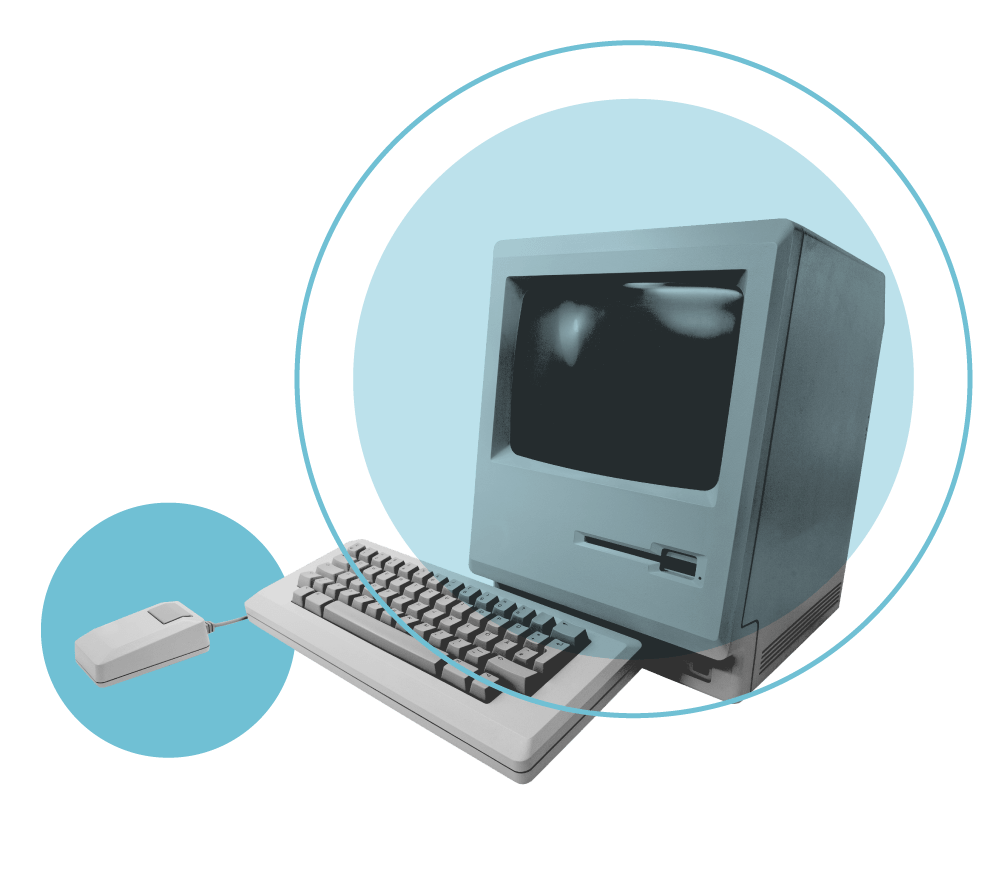
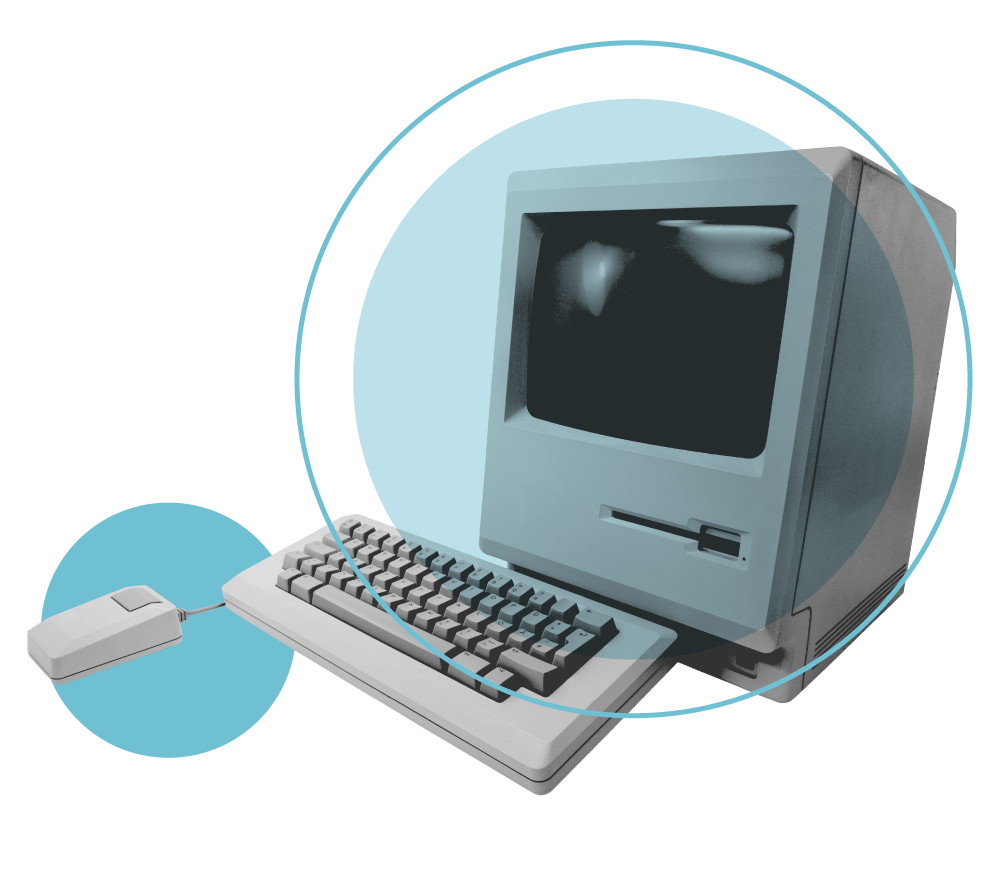
Increased Development image size + other small tweaks

Changed region(s): [[0.031, 0.1534, 0.961, 0.9205], [0.403, 0.7977, 0.434, 0.8284]]

diff --git a/js/script.min.js b/js/script.min.js
@@ -1,1 +1,1 @@
-$(document).ready(function(){var a;$.scrollify({section:".homepage-block, .content-block",scrollbars:false,scrollSpeed:800,before:function(e,d){var f=d[e].attr("data-section-name");$(".pagination a.active").removeClass("active");$(".pagination a[href=\\#"+f+"]").addClass("active");c()},after:c});$(".pagination a").on("click",function(){$.scrollify.move($(this).attr("href"))});function c(){var d=$.scrollify.current();if(d.hasClass("dark")){$(".pagination a, .social-icons, .mobile-navigation .fas").addClass("dark-contrast").removeClass("light-contrast");$("#tag-logo, #tag-logo-mobile").attr("src","img/content/logo-white.png")}else{if(d.hasClass("light")){$(".pagination a, .social-icons, .mobile-navigation .fas").addClass("light-contrast").removeClass("dark-contrast");$("#tag-logo, #tag-logo-mobile").attr("src","img/content/logo-black.png")}else{$(".pagination a, .social-icons, .mobile-navigation .fas").removeClass("dark-contrast light-contrast");$("#tag-logo, #tag-logo-mobile").attr("src","img/content/logo-white.png")}}}$("#mobile-menu-icon").click(function(){$.scrollify.disable();$(".mobile-menu-wrapper").fadeIn();$("body").css("","")});$("#close-menu").click(function(){$(".mobile-menu-wrapper").fadeOut();$.scrollify.enable()});$(".btn, li, p, .contact-region div").hover(function(){if(!$(this).hasClass("active-page")){$(this).find(".hover-bar").css("width","100%")}},function(){$(this).find(".hover-bar").css("width","0")});$("[data-popup-open]").click(function(){$.scrollify.disable();var d=$(this).attr("data-popup-open");$('[data-popup="'+d+'"]').fadeIn(350).css("display","flex");$("body").css("overflow","hidden")});$("[data-popup-close]").click(function(){$(".mobile-menu-wrapper").fadeOut();var d=$(this).attr("data-popup-close");$('[data-popup="'+d+'"]').fadeOut(350);$("body").css("overflow","auto");var e=$(this).find("iframe").attr("src");$(this).find("iframe").attr("src","");$(this).find("iframe").attr("src",e);$.scrollify.enable()});$(".link-hover").hover(function(){$(this).find(".fa-chevron-right").removeClass("link-hover-arrow")},function(){$(this).find(".fa-chevron-right").addClass("link-hover-arrow")});$(".submit-btn").hover(function(){$(".submit-btn span").css("width","100%")},function(){$(".submit-btn span").css("width","0%")});$(".contact-region div").click(function(){$(".contact-region div").removeClass("active-region");$(this).addClass("active-region")});$(".form-container").submit(function(){$(this).fadeOut(200);setTimeout(function(){$(".contact-region, #contactform").hide();$(".contact-title h3").html('Message Sent <i class="fas fa-check"></i>');$(".region-help").text("We'll be in touch!");$(".contact-title").css("width","100%");$(".form-container").fadeIn(200)},400)});$(".nz").click(function(){$("#region").val("nz");$("#nz-img").attr("src","img/layout/n-hover.png");$("#aus-img").attr("src","img/layout/au.png");$(this).addClass("active-region").removeClass("inactive");$(".aus").removeClass("active-region").addClass("inactive")});$(".aus").click(function(){$("#region").val("aus");$("#nz-img").attr("src","img/layout/n.png");$("#aus-img").attr("src","img/layout/au-hover.png");$(this).addClass("active-region").removeClass("inactive");$(".nz").removeClass("active-region").addClass("inactive")});$(".nz, .aus").click(function(){$(".nz, .aus").removeClass("region-select");$(".contact-form").removeClass("submitted");$("#form-name").focus()});$(".nz, .aus").hover(function(){if(!$(this).hasClass("active-region")){$(this).removeClass("inactive")}},function(){if(!$(this).hasClass("active-region")){$(this).addClass("inactive")}});$(".product").hover(function(){$(".product").css("opacity","0.2");$(this).css("opacity","1")},function(){$(".product").css("opacity","1")});$(window).scroll(function(){if($(this).scrollTop()>50){$(".nav-container").css("padding","1em 4em");$(".nav-container .logo-wrapper").css("width","85px")}else{$(".nav-container").css("padding","2em 4em");$(".nav-container .logo-wrapper").css("width","100px")}});$("#top-btn").click(function(){$("html").animate({scrollTop:0},900)});$(".scroll-icon").click(function(){$("html, body").animate({scrollTop:$("#what").offset().top},500)});$(".go-back").click(function(){history.back()});for(var b=1;b<48;b++){$(".mosaic-wrapper").append("<div class='mosaic-image'><img src='img/content/who/who-"+b+".jpg' alt='mosaic image "+b+"'></div>")}setInterval(function(){mosaicWidth=$(".mosaic-image").width();$(".mosaic-image").css("height",mosaicWidth)},0);$(function(){var e=$(".mosaic-wrapper");var d=e.children();while(d.length){e.append(d.splice(Math.floor(Math.random()*d.length),1)[0])}});c()});
+$(document).ready(function(){var a;$.scrollify({section:".homepage-block, .content-block",scrollbars:false,scrollSpeed:800,before:function(e,d){var f=d[e].attr("data-section-name");$(".pagination a.active").removeClass("active");$(".pagination a[href=\\#"+f+"]").addClass("active");c()},after:c});$(".pagination a").on("click",function(){$.scrollify.move($(this).attr("href"))});function c(){var d=$.scrollify.current();if(d.hasClass("dark")){$(".pagination a, .social-icons, .mobile-navigation .fas").addClass("dark-contrast").removeClass("light-contrast");$("#tag-logo, #tag-logo-mobile").attr("src","img/content/logo-white.png")}else{if(d.hasClass("light")){$(".pagination a, .social-icons, .mobile-navigation .fas").addClass("light-contrast").removeClass("dark-contrast");$("#tag-logo, #tag-logo-mobile").attr("src","img/content/logo-black.png")}else{$(".pagination a, .social-icons, .mobile-navigation .fas").removeClass("dark-contrast light-contrast");$("#tag-logo, #tag-logo-mobile").attr("src","img/content/logo-white.png")}}}$("#mobile-menu-icon").click(function(){$.scrollify.disable();$(".mobile-menu-wrapper").fadeIn();$("body").css("","")});$("#close-menu").click(function(){$(".mobile-menu-wrapper").fadeOut();$.scrollify.enable()});$(".btn, li, p, .contact-region div").hover(function(){if(!$(this).hasClass("active-page")){$(this).find(".hover-bar").css("width","100%")}},function(){$(this).find(".hover-bar").css("width","0")});$("[data-popup-open]").click(function(){$.scrollify.disable();var d=$(this).attr("data-popup-open");$('[data-popup="'+d+'"]').fadeIn(350).css("display","flex");$("body").css("overflow","hidden")});$("[data-popup-close]").click(function(){$(".mobile-menu-wrapper").fadeOut();var d=$(this).attr("data-popup-close");$('[data-popup="'+d+'"]').fadeOut(350);$("body").css("overflow","auto");var e=$(this).find("iframe").attr("src");$(this).find("iframe").attr("src","");$(this).find("iframe").attr("src",e);$.scrollify.enable()});$(".link-hover").hover(function(){$(this).find(".fa-chevron-right").removeClass("link-hover-arrow")},function(){$(this).find(".fa-chevron-right").addClass("link-hover-arrow")});$(".submit-btn").hover(function(){$(".submit-btn span").css("width","100%")},function(){$(".submit-btn span").css("width","0%")});$(".contact-region div").click(function(){$(".contact-region div").removeClass("active-region");$(this).addClass("active-region")});$(".form-container").submit(function(){$(this).fadeOut(200);setTimeout(function(){$(".contact-region, #contactform").hide();$(".contact-title h3").html('Message Sent <i class="fas fa-check"></i>');$(".region-help").text("We'll be in touch!");$(".contact-title").css("width","100%");$(".form-container").fadeIn(200)},400)});$(".nz").click(function(){$("#region").val("nz");$("#nz-img").attr("src","img/layout/n-hover.png");$("#aus-img").attr("src","img/layout/au.png");$(this).addClass("active-region").removeClass("inactive");$(".aus").removeClass("active-region").addClass("inactive")});$(".aus").click(function(){$("#region").val("aus");$("#nz-img").attr("src","img/layout/n.png");$("#aus-img").attr("src","img/layout/au-hover.png");$(this).addClass("active-region").removeClass("inactive");$(".nz").removeClass("active-region").addClass("inactive")});$(".nz, .aus").click(function(){$(".nz, .aus").removeClass("region-select");$(".contact-form").removeClass("submitted");$("#form-name").focus()});$(".nz, .aus").hover(function(){if(!$(this).hasClass("active-region")){$(this).removeClass("inactive")}},function(){if(!$(this).hasClass("active-region")){$(this).addClass("inactive")}});$(".product").hover(function(){$(".product").css("opacity","0.2");$(this).css("opacity","1")},function(){$(".product").css("opacity","1")});$(window).scroll(function(){if($(this).scrollTop()>50){$(".nav-container").css("padding","1em 4em");$(".nav-container .logo-wrapper").css("width","85px")}else{$(".nav-container").css("padding","2em 4em");$(".nav-container .logo-wrapper").css("width","100px")}});$("#top-btn").click(function(){$("html").animate({scrollTop:0},900)});$(".scroll-icon").click(function(){$("html, body").animate({scrollTop:$("#what").offset().top},500)});$(".go-back").click(function(){history.back()});for(var b=1;b<50;b++){$(".mosaic-wrapper").append("<div class='mosaic-image'><img src='img/content/who/who-"+b+".jpg' alt='mosaic image "+b+"'></div>")}setInterval(function(){mosaicWidth=$(".mosaic-image").width();$(".mosaic-image").css("height",mosaicWidth)},0);$(function(){var e=$(".mosaic-wrapper");var d=e.children();while(d.length){e.append(d.splice(Math.floor(Math.random()*d.length),1)[0])}});c()});

diff --git a/js/script.js b/js/script.js
@@ -175,7 +175,7 @@
 		history.back()
 	});
 
-	for (var i = 1; i < 48; i++) {
+	for (var i = 1; i < 50; i++) {
 		$('.mosaic-wrapper').append("<div class='mosaic-image'><img src='img/content/who/who-"+i+".jpg' alt='mosaic image "+i+"'></div>");
 	}
 

diff --git a/resources/templates/footer.php b/resources/templates/footer.php
@@ -40,18 +40,21 @@
 		showDivs(1, 1);
 
 		function plusDivs(n, no) {
-		  showDivs(slideIndex[no] += n, no);
+			showDivs(slideIndex[no] += n, no);
 		}
 
 		function showDivs(n, no) {
-		  var i;
-		  var x = document.getElementsByClassName(slideId[no]);
-		  if (n > x.length) {slideIndex[no] = 1}
-		  if (n < 1) {slideIndex[no] = x.length}
-		  for (i = 0; i < x.length; i++) {
+			var i;
+			var x = document.getElementsByClassName(slideId[no]);
+			if (n > x.length) {slideIndex[no] = 1}
+			if (n < 1) {slideIndex[no] = x.length}
+			for (i = 0; i < x.length; i++) {
 			 x[i].style.display = "none";
-		  }
-		  x[slideIndex[no]-1].style.display = "block";
+			}
+			if(!x[slideIndex[no]-1]){
+				return;
+			}
+			x[slideIndex[no]-1].style.display = "block";
 		}
 		</script>
 		<script src="js/jquery-3.3.1.min.js"></script>

diff --git a/mailer.php b/mailer.php
@@ -20,9 +20,9 @@
         }
 
 		if($region == "aus" ){
-			$recipient = "charlie@tagtheagency.com";
+			$recipient = "straya@tagtheagency.com";
 		} else if($region == "nz"){
-			$recipient = "charlie@tagtheagency.com";
+			$recipient = "nuzeelend@tagtheagency.com";
 		}
 
         // Set the email subject.
